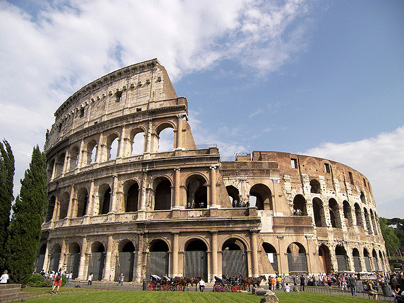
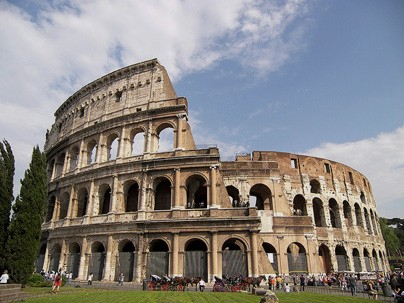
ui

diff --git a/app/flights/page.jsx b/app/flights/page.jsx
@@ -32,25 +32,50 @@ function FlightsList() {
   if (loading) return <h1>טוען טיסות...</h1>;
 
   return (
-    <div className="the-flights" style={{ display: 'flex', flexWrap: 'wrap', gap: '20px', justifyContent: 'center' }}>
+    <div className="the-flights" style={{ 
+      display: 'grid', 
+      gridTemplateColumns: 'repeat(3, 1fr)', 
+      gap: '20px', 
+      padding: '20px' 
+    }}>
       {filteredFlights.length > 0 ? (
         filteredFlights.map((flight) => (
-          <div style = {{backgroundImage: 'url(' + (flight.image || '/images/placeholder.jpg') + ')', width: '300px', 
-            backgroundSize: 'contain'
-          }}>
-            <Link key={flight._id} href={`/flight/${flight._id}`} className="flight"
-              style={{ border: '1px solid #ccc', padding: '15px', borderRadius: '10px',  textDecoration: 'none', color: 'inherit' }}>
-              {/* <img
-                src={flight.image || "/images/placeholder.jpg"}
-                alt={flight.to}
-                style={{ width: '100%', height: '180px', objectFit: 'cover', borderRadius: '8px', marginBottom: '10px' }}
-              /> */}
-              <h1 className="where" style={{ fontSize: '1.2rem', margin: '0 0 10px 0' }}>{flight.to || flight.destination || "יעד לא צוין"}</h1>
-              <p>חברת תעופה: {flight.Airline || flight.airline || "לא צוין"}</p>
-              <p>תאריך: {flight.Dates || flight.date || "לא צוין"}</p>
-              <p style={{ color: '#e74c3c', fontWeight: 'bold' }}>{flight.price || "צור קשר"}</p>
-            </Link>
-          </div>
+          <Link 
+            key={flight._id} 
+            href={`/flight/${flight._id}`} 
+            className="flight-card"
+            style={{ 
+              display: 'flex',
+              flexDirection: 'row-reverse', // הופך את הסדר (טקסט ימין, תמונה שמאל)
+              height: '200px',
+              border: '1px solid #ccc',
+              borderRadius: '10px',
+              textDecoration: 'none',
+              color: 'black',
+              overflow: 'hidden',
+              backgroundColor: 'white'
+            }}
+          >
+            {/* צד תמונה (שמאל) */}
+            <div 
+              style={{
+                flex: '1',
+                backgroundImage: `url(${flight.image || '/images/placeholder.jpg'})`,
+                backgroundSize: 'cover',
+                backgroundPosition: 'center',
+              }}
+            />
+
+            {/* צד טקסט (ימין) */}
+            <div style={{ flex: '1', padding: '15px', display: 'flex', flexDirection: 'column', justifyContent: 'space-between' }}>
+              <div>
+                <h1 style={{ fontSize: '1.1rem', margin: '0 0 5px 0' }}>{flight.to || flight.destination || "יעד לא צוין"}</h1>
+                <p style={{ margin: '2px 0', fontSize: '0.8rem' }}>חברת תעופה: {flight.Airline || flight.airline || "לא צוין"}</p>
+                <p style={{ margin: '2px 0', fontSize: '0.8rem' }}>תאריך: {flight.Dates || flight.date || "לא צוין"}</p>
+              </div>
+              <p style={{ fontWeight: 'bold', fontSize: '1rem', margin: '0' }}>{flight.price || "צור קשר"}</p>
+            </div>
+          </Link>
         ))
       ) : (
         <p>לא נמצאו טיסות תואמות לחיפוש "{searchTerm}"</p>
@@ -63,17 +88,13 @@ export default function FlightsPage() {
   return (
     <div id="box" style={{ minHeight: '100vh', display: 'flex', flexDirection: 'column' }}>
       <Navbar />
-
       <div id="Main" style={{ padding: '20px', flex: 1, width: '100%', boxSizing: 'border-box' }}>
-
         <h1 className="title" style={{ width: '100%', textAlign: 'center', marginBottom: '30px' }}>
           רשימת הטיסות שלנו
         </h1>
-
         <Suspense fallback={<div>טוען...</div>}>
           <FlightsList />
         </Suspense>
-
       </div>
       <Footer />
     </div>

diff --git a/app/globals.css b/app/globals.css
@@ -91,31 +91,6 @@ a {
     margin-left: 1%;
 }
 
-/* ==========================================
-   🖼️ גלריית תמונות (Photos Section)
-   ========================================== */
-.photos {
-    display: flex;
-    flex-wrap: wrap;
-    margin-top: 1%;
-    margin-bottom: 3%;
-    gap: 5px;
-    width: 70%;
-    justify-content: center;
-
-}
-
-.Photo {
-    padding: 15px;
-    width: 20rem;
-    height: 10rem;
-}
-
-#header{
-    width: 100%;
-    display: flex;
-    justify-content: center;
-}
 
 /* ==========================================
    🏷️ עמוד הבית - מבצעים וחבילות נופש (Sales & Vacations)